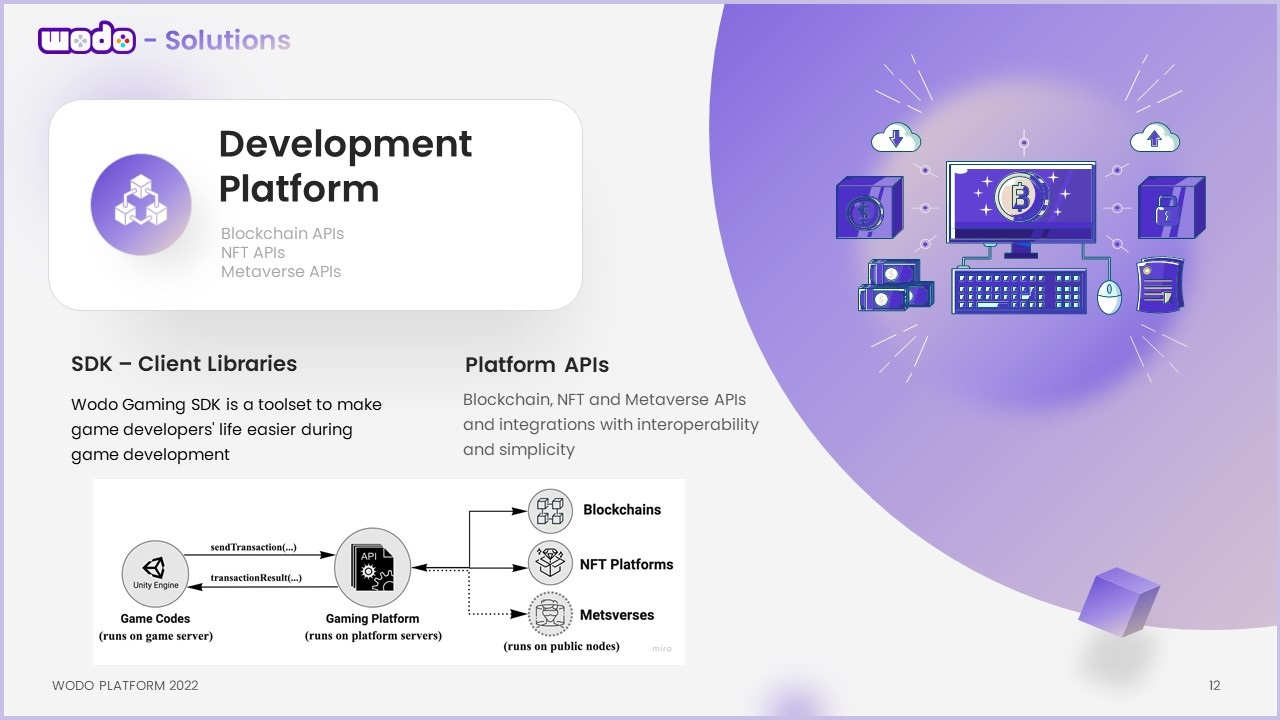
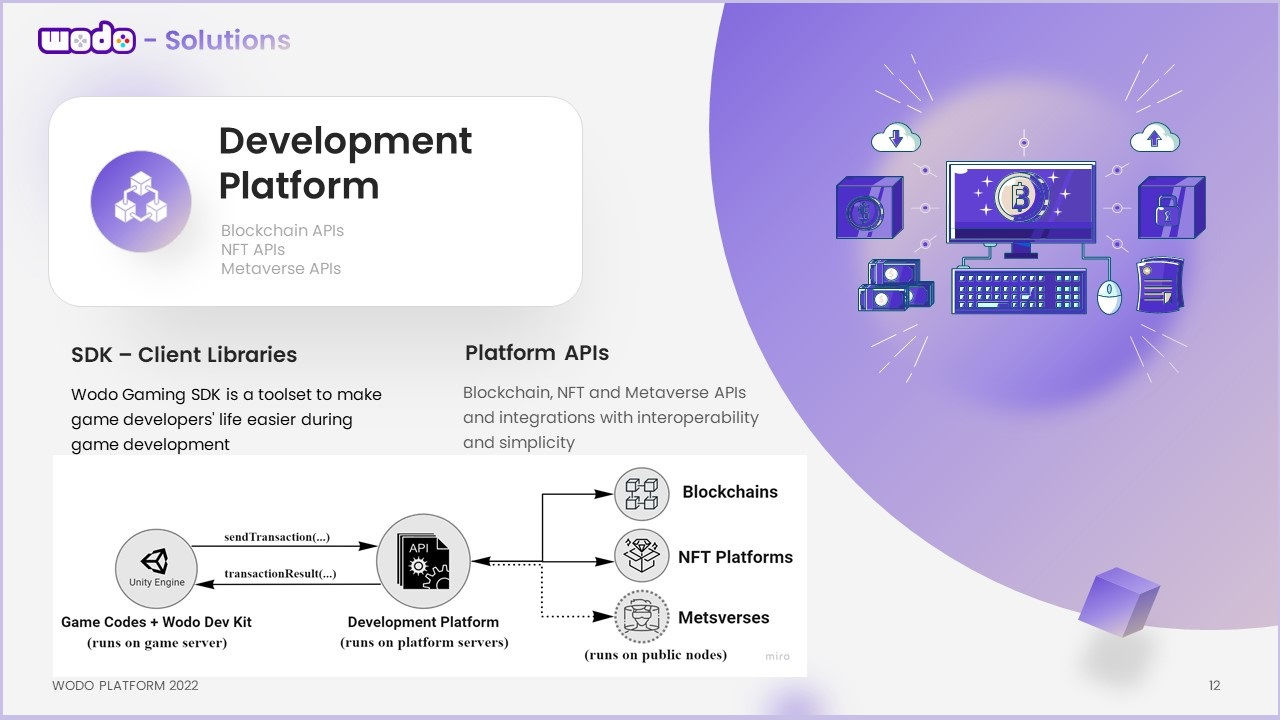
GitBook: [#418] No subject

diff --git a/docs/README.md b/docs/README.md
@@ -15,6 +15,10 @@ The metaverse and blockchain technologies unleash a whole new wave of tools, pro
 
 ![Wodo Gaming Ecosystem](.gitbook/assets/Slide10.JPG)
 
+Wodo Development Kit (SDK) and client libraries simplify integration between gaming projects and the Wodo Gaming APIs, blockchain networks so that game developers can rapidly enrich their games with several use cases such as blockchain payment cases, NFT generation as in-game assets, etc.
+
+![](.gitbook/assets/Slide12\_intro.JPG)
+
 ### **What's possible with Wodo Gaming?**
 
 It has never been that easy for game developers to enrich their games with blockchain, NFT, and metaverse technologies, and publish/engage their games with an active community that embraces the new era of gaming experience. Here is the simple flow of how a game is empowered with the wodo gaming solutions starting from development to effortless integrations and publishing.
